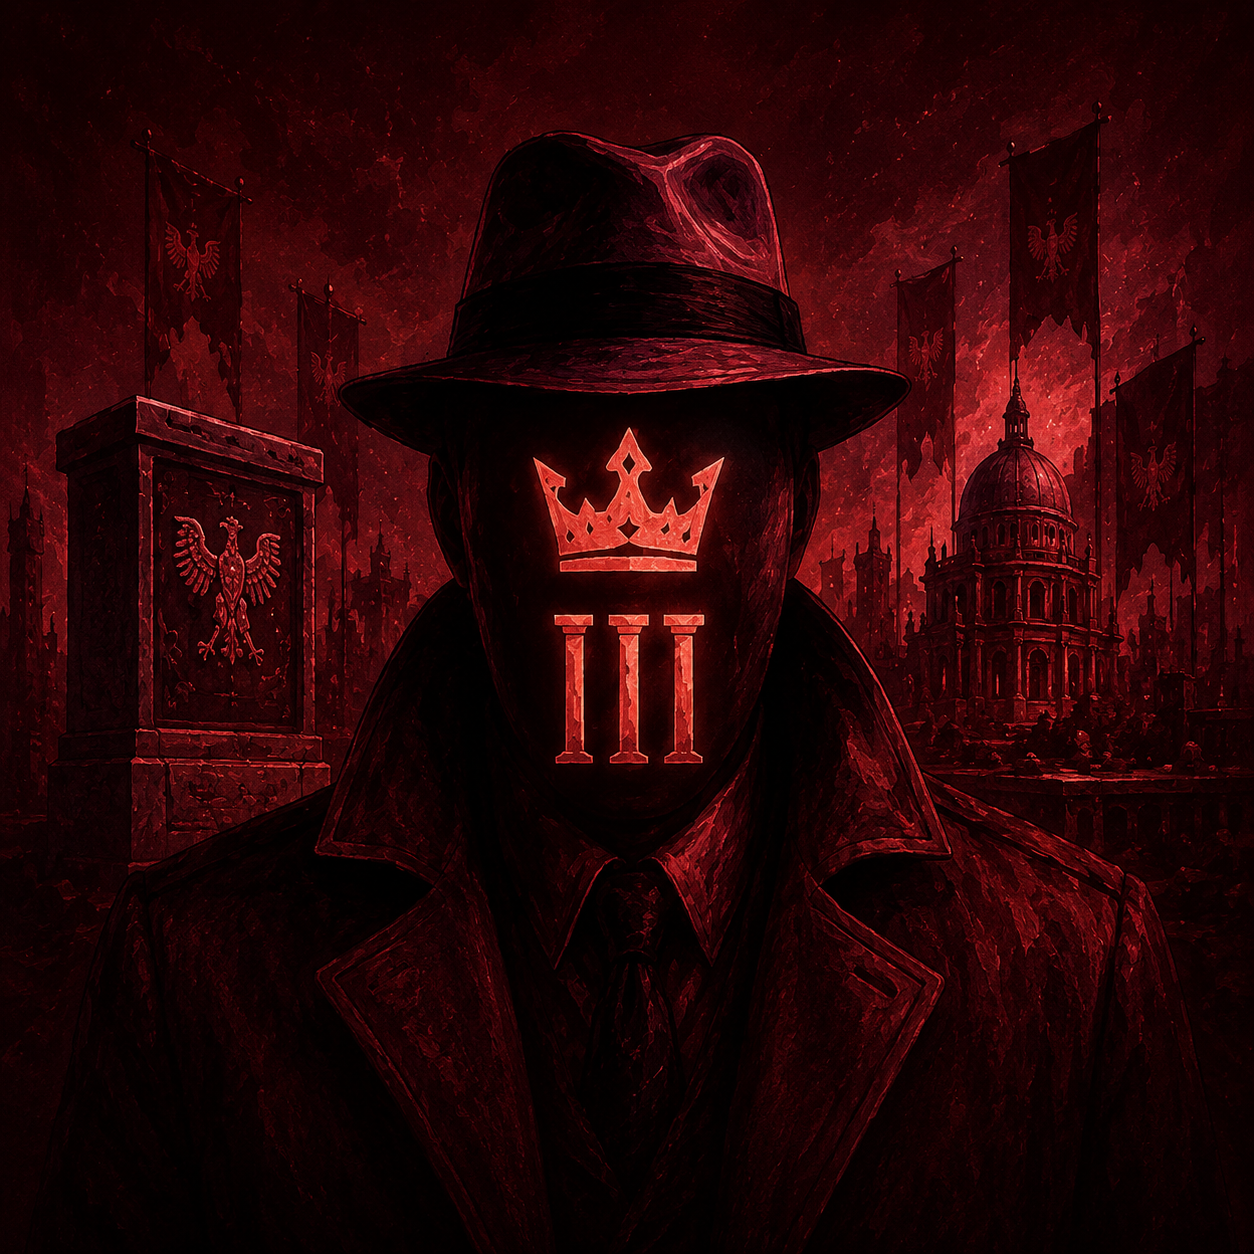
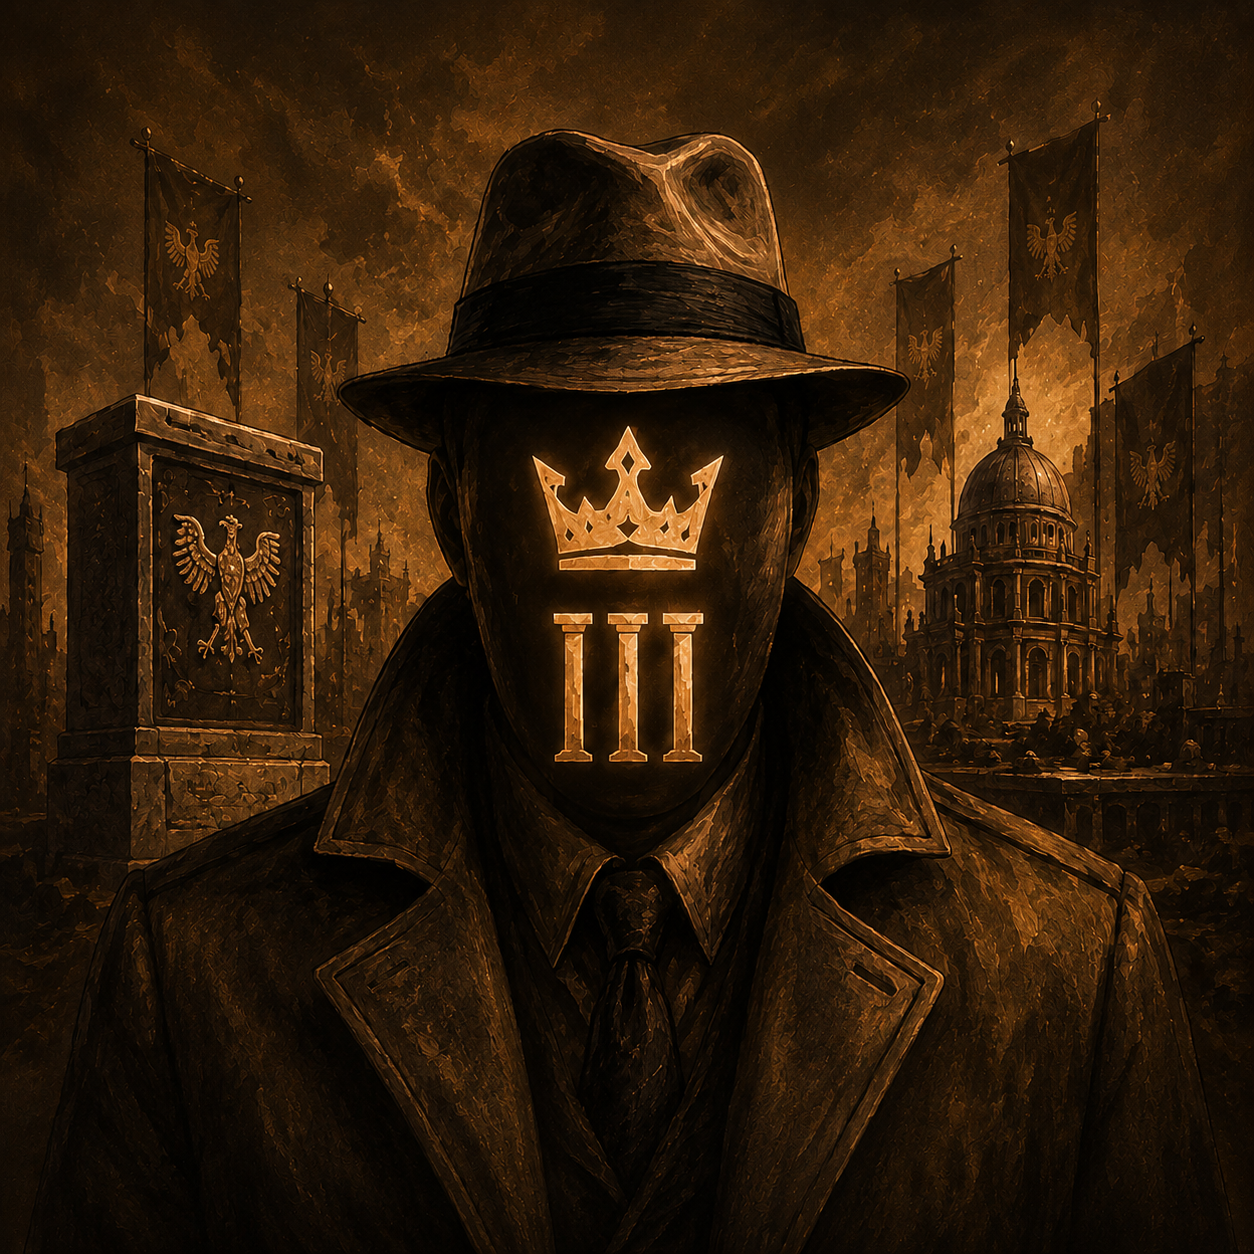
dominion collection card updated

diff --git a/index.html b/index.html
@@ -77,7 +77,7 @@
       color: #467da8;
       color: #5a85a5;
     }
-    #war_feast, #dominion {
+    #war_feast{
       color: #d06363;
       color: #cd7b7b;
     }
@@ -85,6 +85,12 @@
       color: #619462;
       color: #719272;
     }
+    #dominion {
+      color: #cfa960;
+      color: #d0b37d;
+      /* color: #cfa960; */
+    }
+
    
 
     main { flex: 1 0 auto;  background:
@@ -149,8 +155,6 @@
       }
     }
 
-    
-    
 
     /* COLLECTIONS */
     #collections { max-width: var(--content-max); margin-inline: auto; padding-inline: var(--content-pad); }
@@ -176,10 +180,16 @@
     .collection-description { font-family: 'Inter', sans-serif; font-weight: 400; font-size: .9rem; line-height: 1.35; color: var(--ink-78); margin-bottom: .4rem; }
     /* .works-include { font-family: 'Times New Roman', Times, serif; font-size: clamp(11px, .8vw, 13px); font-weight: 500; text-transform: uppercase; letter-spacing: .5px; color: var(--ink-70); margin-bottom: .15rem; } */
 
+    /* Dominion card text override */
+    #dominion + .copy .collection-title,
+    #dominion + .copy .collection-description {
+      color: #cfa960;
+    }
+
     /* .flashing-title { font-family: 'Times New Roman', Times, serif; font-size: clamp(12px, 1vw, 15px); font-weight: 400; color: var(--ink-70); } */
     /* .flashing-title { font-family: 'Inter', sans-serif; font-size: clamp(12px, 1vw, 15px); font-weight: 400; color: var(--ink-70); } */
     .flashing-title { font-family: 'Inter', sans-serif; font-size: .8rem; font-weight: 400; color: var(--ink-70); }
-    .flashing-title { font-family: 'intel One Mono', monospace; font-size: .7rem; font-weight: 300; opacity: .7; color: var(--ink-70); }
+    .flashing-title { font-family: 'intel One Mono', monospace; font-size: .7rem; font-weight: 300; opacity: .5; color: var(--ink-70); }
 
     /* Hairline divider (fade on right only) */
     #collections a.group .worklist { position: relative; margin-top: .35rem; padding-top: .45rem; }
@@ -241,7 +251,6 @@
     }
 
   
-
     /* Original Footer */
 
     /* Desktop footer */

diff --git a/collection_pages/dominion.html b/collection_pages/dominion.html
@@ -14,8 +14,18 @@
       font-family: Inter, system-ui, -apple-system, Segoe UI, Roboto, "Helvetica Neue", Arial;
       color: white;
      background:
-      radial-gradient(1200px 600px at 20% 0%, rgba(255,255,255,0.04), transparent),
-      linear-gradient(180deg, rgba(90, 15, 25, 0.88), rgba(30, 5, 10, 0.95)),
+      /* radial-gradient(1200px 600px at 20% 0%, rgba(255,255,255,0.04), transparent),
+      linear-gradient(180deg, rgba(90, 15, 25, 0.88), rgba(30, 5, 10, 0.95)), */
+        radial-gradient(
+          1200px 600px at 20% 0%,
+          rgba(255, 214, 120, 0.06),
+          transparent
+        ),
+        linear-gradient(
+          180deg,
+          rgba(92, 54, 24, 0.92),
+          rgba(42, 24, 14, 0.98)
+        ),
       url('../img/background_imgs/even_larger_about_background.png') center/cover no-repeat;
     }
     .serif{ font-family:"Playfair Display", Georgia, serif; }